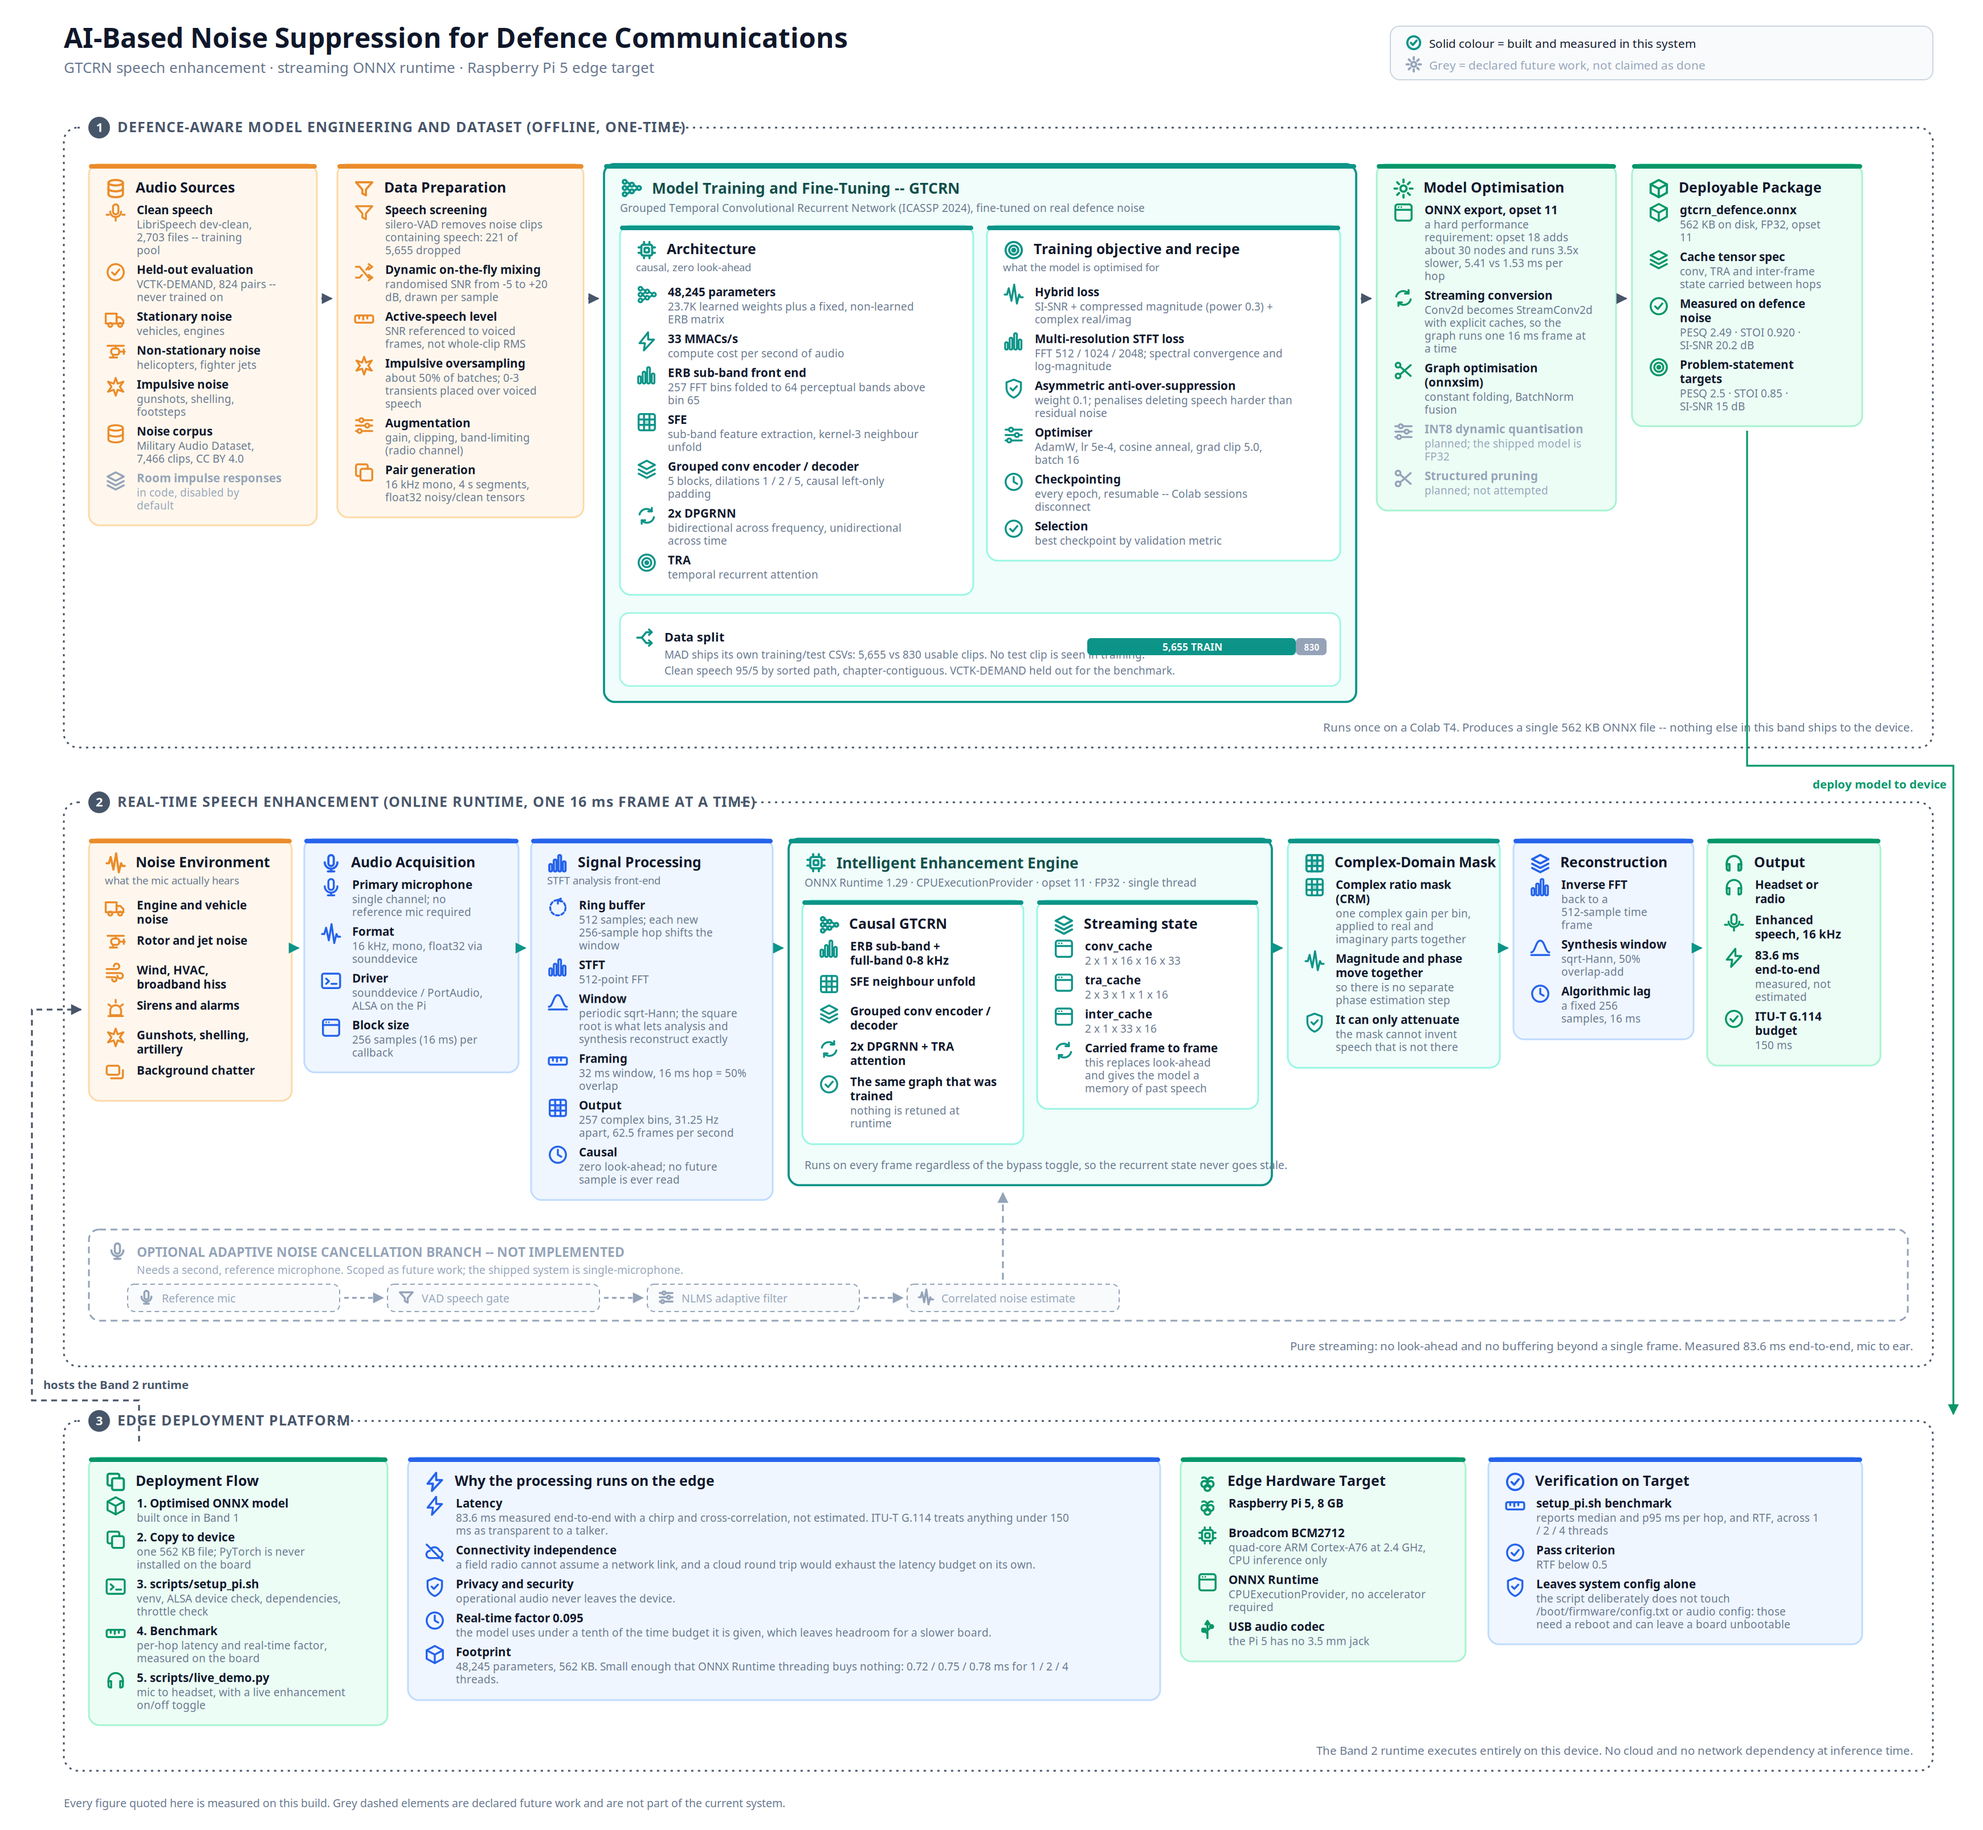
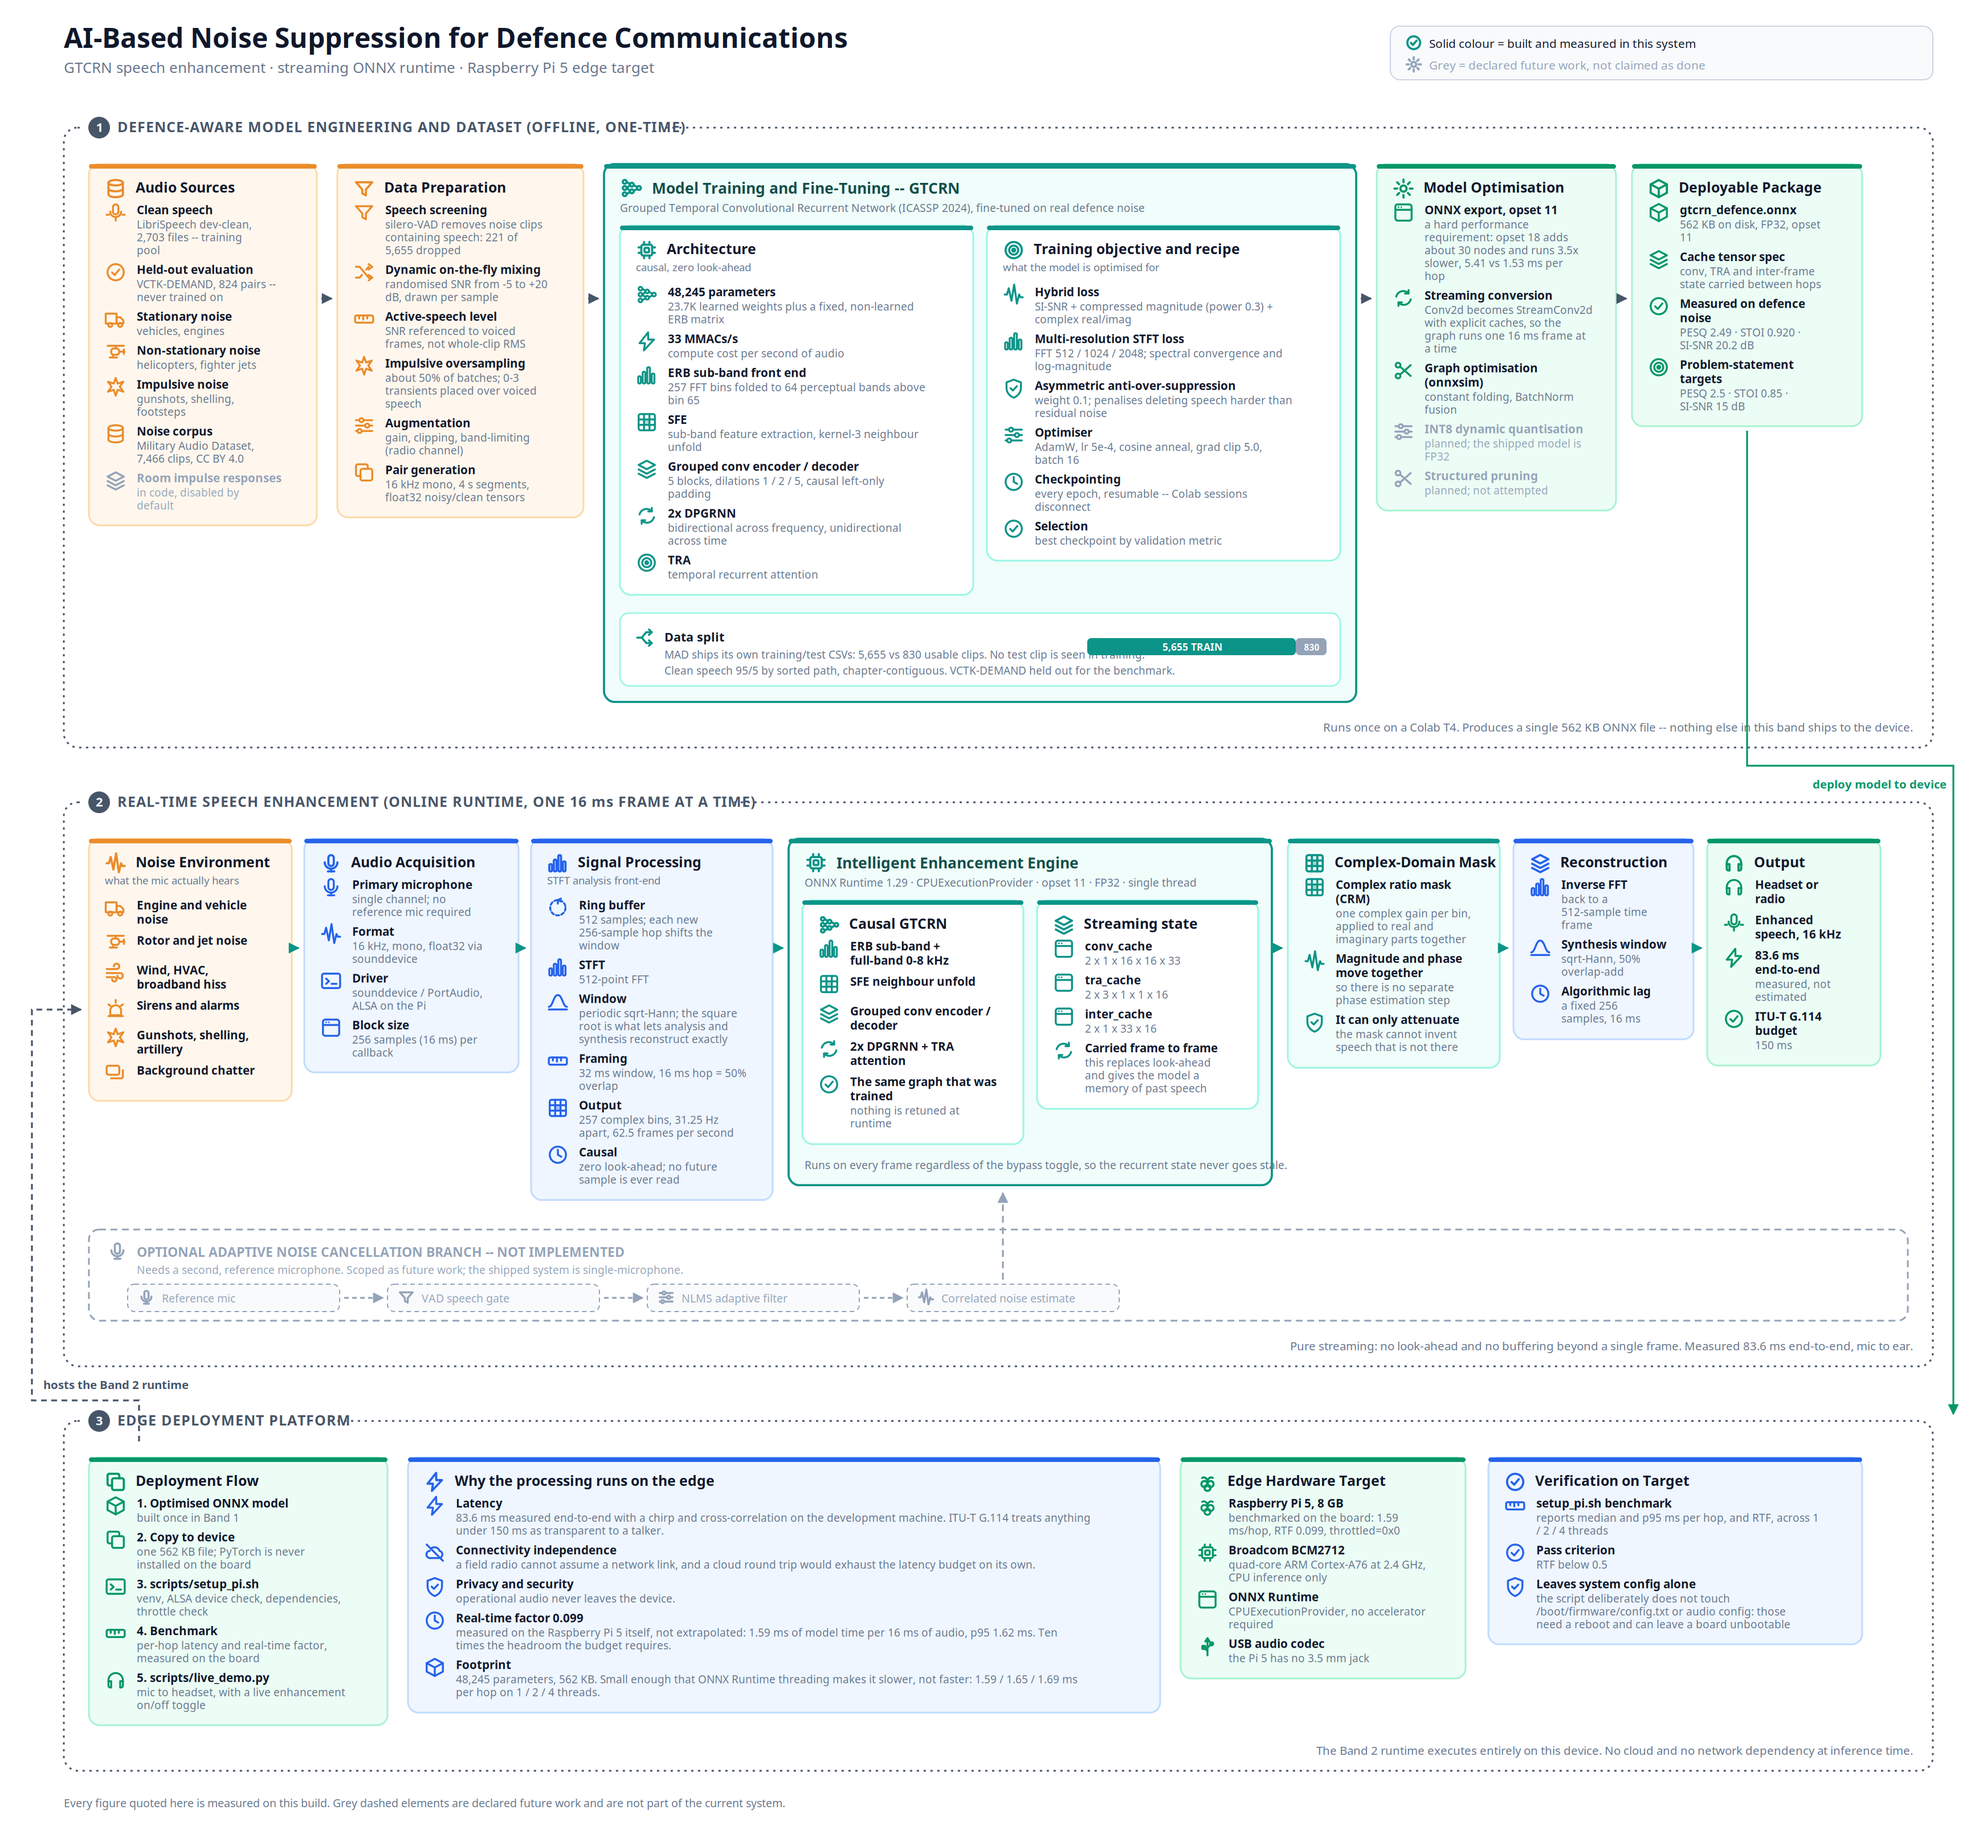
docs: replace estimated Pi figures with measured ones
Benchmarked on the target board via scripts/setup_pi.sh -- Raspberry Pi 5 Model B
Rev 1.1, 8 GB, throttled=0x0:

    1 thread   1.59 ms/hop   p95 1.62   RTF 0.099
    2 threads  1.65 ms/hop   p95 1.69   RTF 0.103
    4 threads  1.69 ms/hop   p95 1.73   RTF 0.106

The deployment claim was previously extrapolated from laptop timings. It is now
measured on the hardware it claims to run on, which was the largest unverified
statement in the submission.

Two results worth recording. The Pi lands within 4% of the development laptop
(1.59 vs 1.53 ms/hop): at 33 MMACs/s the graph is dominated by per-operator
overhead rather than arithmetic, so a Cortex-A76 keeps pace with an x86 core.
And more threads make it slower, reproducing the laptop finding -- the model is
too small for the coordination cost to pay for itself.

RTF 0.099 also settles the quantisation question. INT8 would optimise a
bottleneck that does not exist, so it stays scoped as future work.

The 83.6 ms end-to-end latency figure is left attributed to the development
machine rather than quietly reused: the Pi has no microphone attached yet, so
its acoustic latency is not measured.

Changed region(s): [[0.2172, 0.8717, 0.5276, 0.934], [0.5897, 0.8095, 0.7138, 0.934]]

diff --git a/scripts/make_pipeline_diagram.py b/scripts/make_pipeline_diagram.py
@@ -357,14 +357,14 @@ d1 = card(IL, dy, 262, "Deployment Flow", "copy", [
     ("headset", "5. scripts/live_demo.py", "mic to headset, with a live enhancement on/off toggle"),
 ], GREEN, GREEN_BG, GREEN_ED)
 d2 = card(358, dy, 660, "Why the processing runs on the edge", "bolt", [
-    ("bolt", "Latency", "83.6 ms measured end-to-end with a chirp and cross-correlation, not estimated. ITU-T G.114 treats anything under 150 ms as transparent to a talker."),
+    ("bolt", "Latency", "83.6 ms measured end-to-end with a chirp and cross-correlation on the development machine. ITU-T G.114 treats anything under 150 ms as transparent to a talker."),
     ("cloudoff", "Connectivity independence", "a field radio cannot assume a network link, and a cloud round trip would exhaust the latency budget on its own."),
     ("shield", "Privacy and security", "operational audio never leaves the device."),
-    ("clock", "Real-time factor 0.095", "the model uses under a tenth of the time budget it is given, which leaves headroom for a slower board."),
-    ("package", "Footprint", "48,245 parameters, 562 KB. Small enough that ONNX Runtime threading buys nothing: 0.72 / 0.75 / 0.78 ms for 1 / 2 / 4 threads."),
+    ("clock", "Real-time factor 0.099", "measured on the Raspberry Pi 5 itself, not extrapolated: 1.59 ms of model time per 16 ms of audio, p95 1.62 ms. Ten times the headroom the budget requires."),
+    ("package", "Footprint", "48,245 parameters, 562 KB. Small enough that ONNX Runtime threading makes it slower, not faster: 1.59 / 1.65 / 1.69 ms per hop on 1 / 2 / 4 threads."),
 ], BLUE, BLUE_BG, BLUE_ED)
 d3 = card(1036, dy, 250, "Edge Hardware Target", "pi", [
-    ("pi", "Raspberry Pi 5, 8 GB", ""),
+    ("pi", "Raspberry Pi 5, 8 GB", "benchmarked on the board: 1.59 ms/hop, RTF 0.099, throttled=0x0"),
     ("chip", "Broadcom BCM2712", "quad-core ARM Cortex-A76 at 2.4 GHz, CPU inference only"),
     ("box", "ONNX Runtime", "CPUExecutionProvider, no accelerator required"),
     ("usb", "USB audio codec", "the Pi 5 has no 3.5 mm jack"),

diff --git a/README.md b/README.md
@@ -1,10 +1,11 @@
 # AI/ML Noise Suppression for Defence Communications (SIH / DRDO)
 
-**Status: fine-tuned model meets the problem statement's targets on real defence noise.**
+**Status: targets met on real defence noise, and real-time on the target hardware.**
 At +15 dB on gunfire/shelling: **PESQ 2.49 ± 0.04** (target 2.5, at target within
-measurement error), **STOI 0.920** (target 0.85), **SI-SNR 20.2 dB** (target 15). Runs
-live mic-to-headset at **83.6 ms** measured end-to-end latency, inside ITU-T G.114's
-transparent band. Raspberry Pi deployment is the remaining step — pending hardware.
+measurement error), **STOI 0.920** (target 0.85), **SI-SNR 20.2 dB** (target 15).
+Benchmarked on a **Raspberry Pi 5**: **1.59 ms of model time per 16 ms of audio
+(RTF 0.099)** — ten times the headroom real-time requires. Runs live mic-to-headset at
+**83.6 ms** measured end-to-end latency, inside ITU-T G.114's transparent band.
 
 See [`docs/architecture.md`](docs/architecture.md) to understand the system, or
 [`docs/solution-design.md`](docs/solution-design.md) for the full build plan.
@@ -105,6 +106,28 @@ cross-correlation will report a confident-looking but meaningless number; (2) th
 PortAudio's *default* buffer size, which is larger than the 256-sample blocks the live
 demo actually runs, so 83.6 ms is a conservative upper bound on the demo's real latency.
 Hardware round trip dominates the budget — the model contributes ~1%.
+
+### On the Raspberry Pi 5 (the target board)
+
+Measured by `scripts/setup_pi.sh` on a Pi 5 Model B Rev 1.1, 8 GB, `throttled=0x0`
+(no undervoltage or thermal limiting — a throttled board silently reports worse
+numbers, so this is checked before benchmarking rather than after).
+
+| Threads | ms/hop (median) | p95 | RTF |
+|---|---|---|---|
+| **1** | **1.59** | 1.62 | **0.099** |
+| 2 | 1.65 | 1.69 | 0.103 |
+| 4 | 1.69 | 1.73 | 0.106 |
+
+Two things worth stating plainly. **The Pi is within 4% of the development laptop**
+(1.59 vs 1.53 ms/hop) — at 33 MMACs/s the graph is dominated by per-operator overhead
+rather than arithmetic, so a Cortex-A76 keeps pace with an x86 core. And **more threads
+make it slower**, exactly as on the laptop: the model is too small for the coordination
+cost to pay for itself. Single-threaded is the right configuration.
+
+RTF 0.099 also settles the quantisation question — INT8 would optimise a bottleneck
+that does not exist. It stays scoped as future work rather than being done for its
+own sake.
 
 **Live mode (run this yourself — it uses your microphone and speakers):**
 
